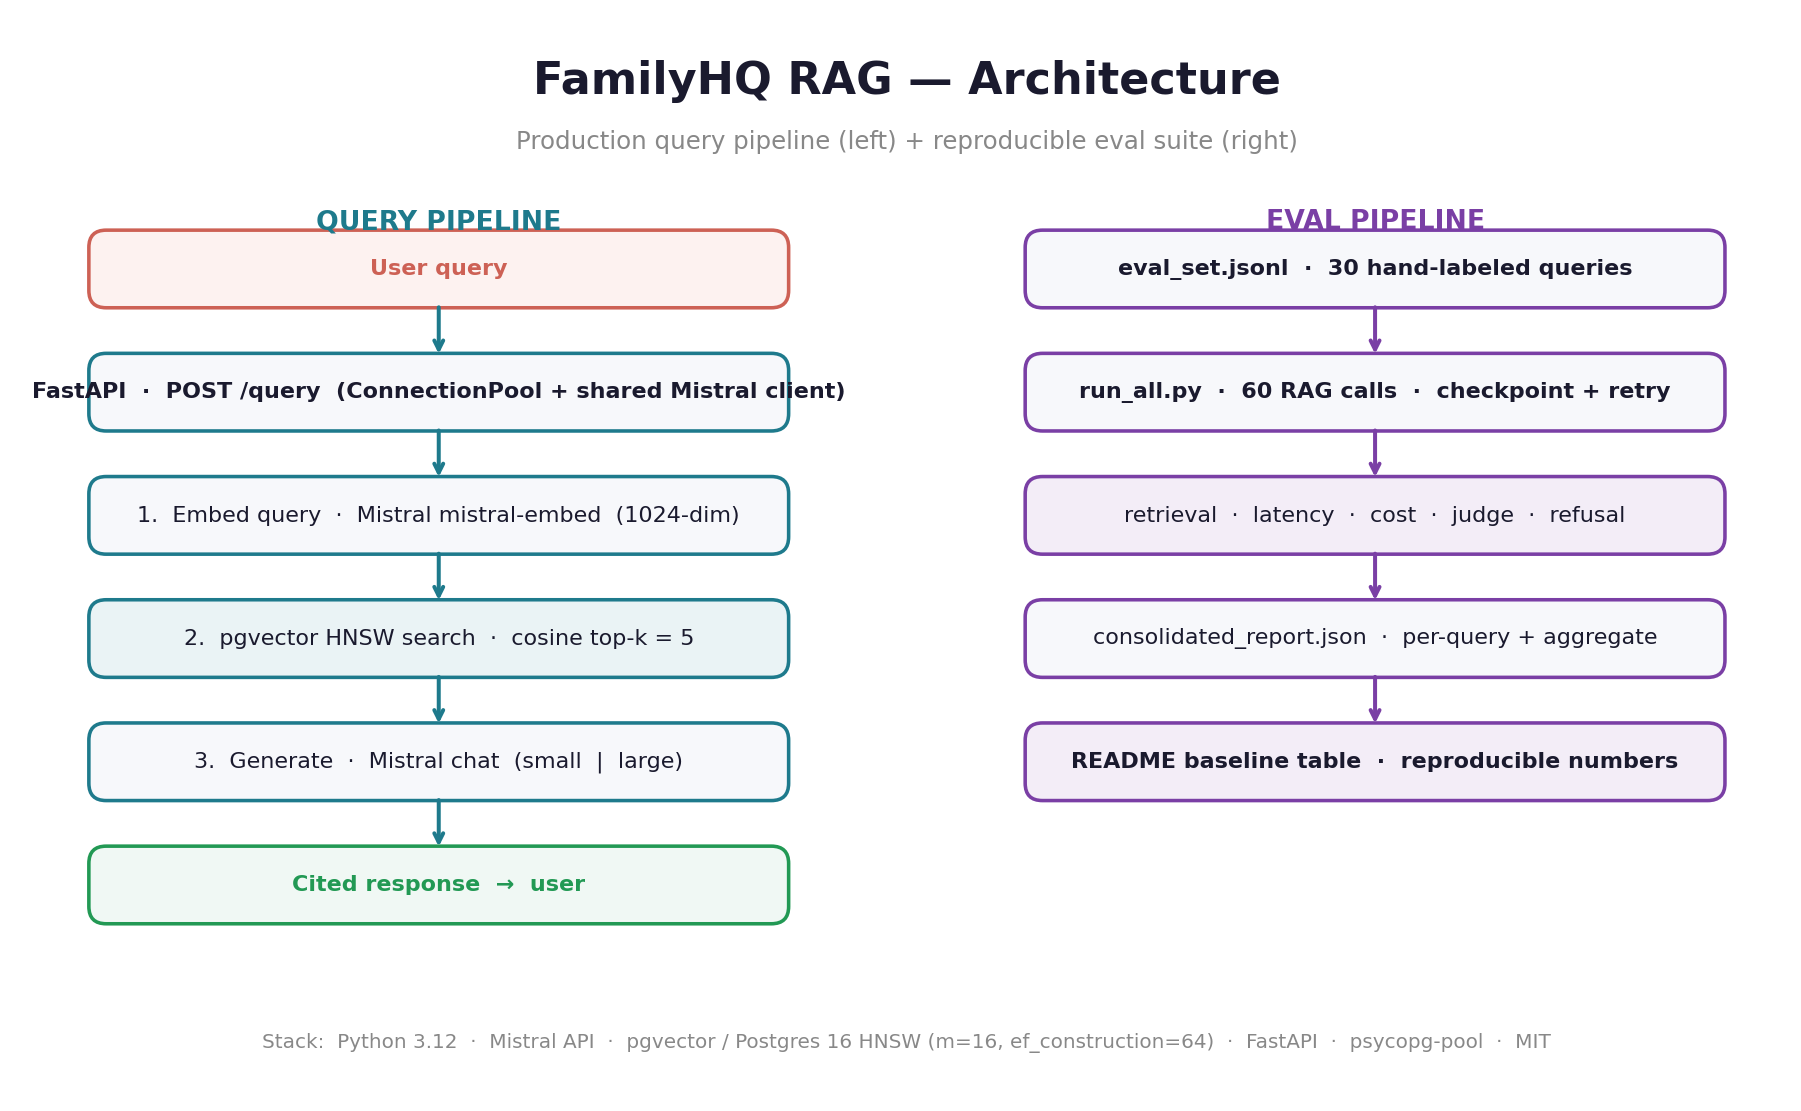
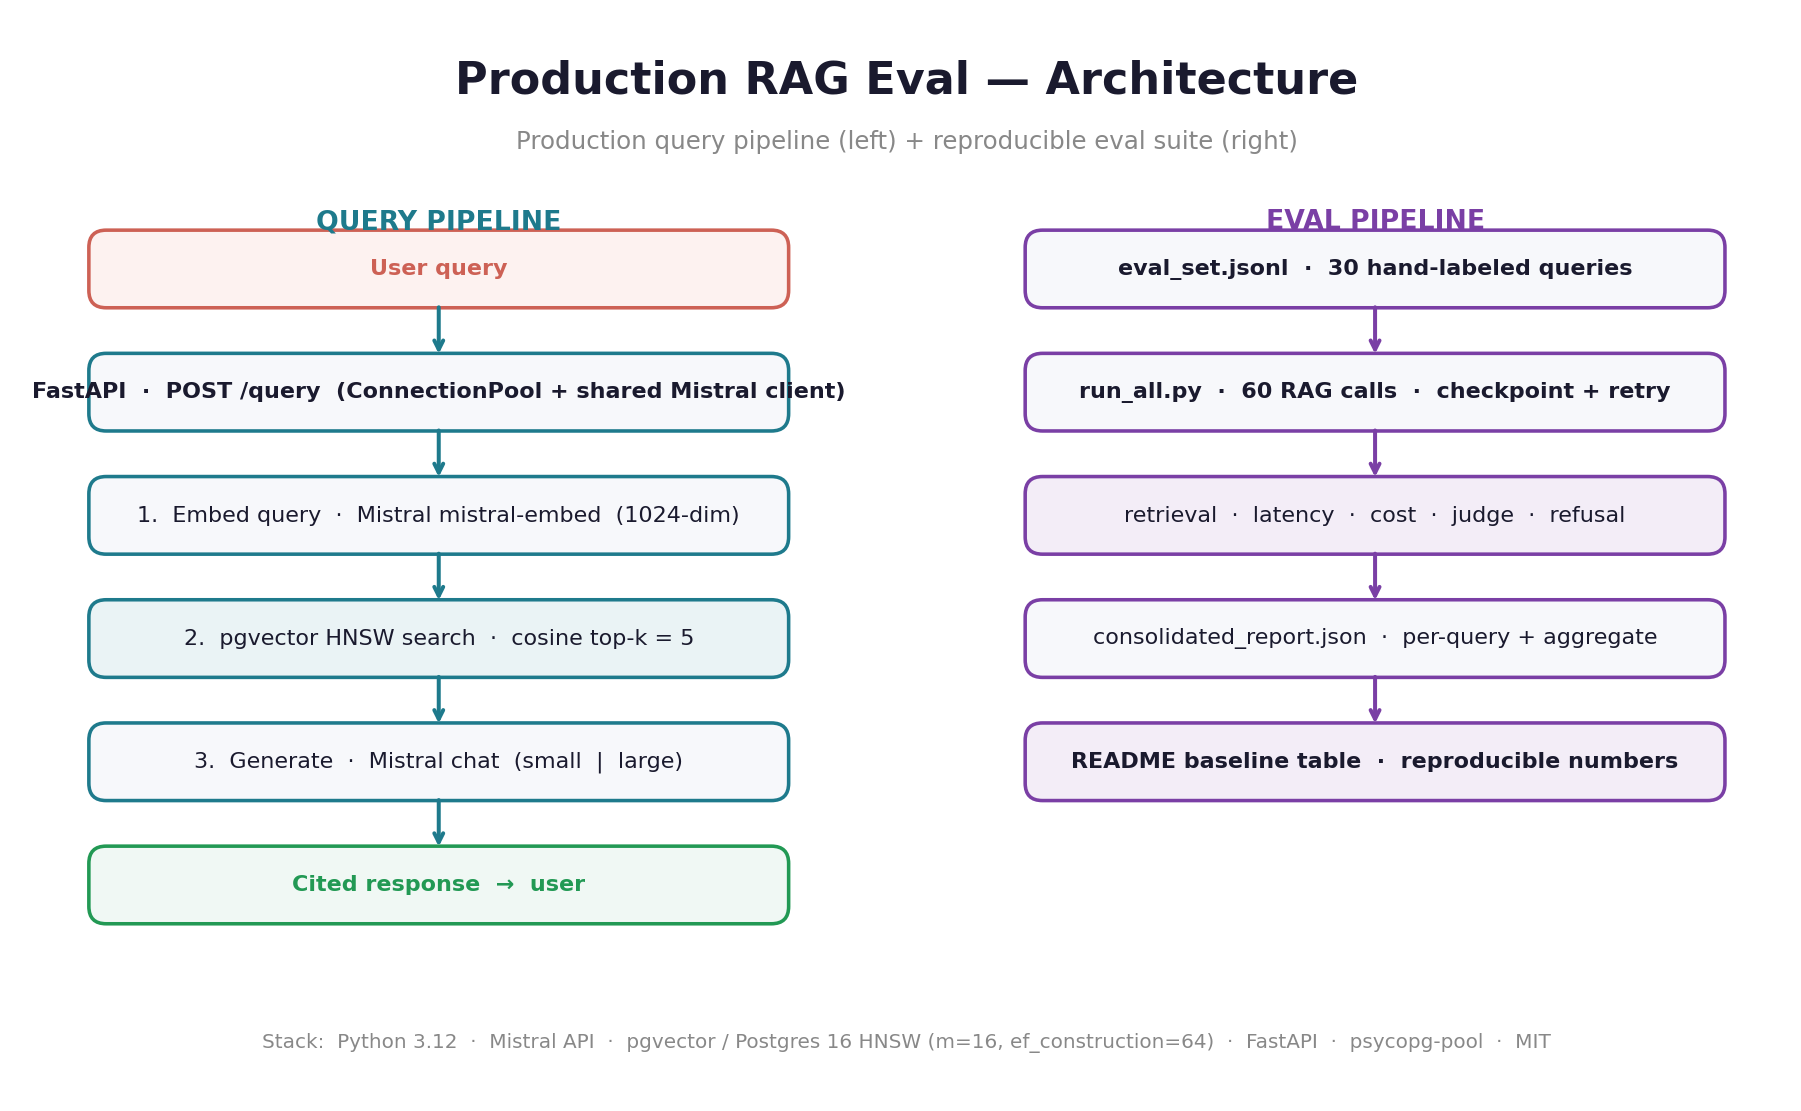
rename: FamilyHQ → production-rag-eval (clarity for recruiter audience)
User-visible text + branding updated:
- README: title 'Production RAG Eval', clone URL openatlaspro-AI/production-rag-eval,
  project structure folder name, 'What FamilyHQ is' section reframed to neutral
  'Personal context' (FamilyHQ Printables / Gumroad references removed)
- docs/architecture.png: regenerated with new title
- docs/_diagram.py: title text updated
- docs/decisions.md: ADR-005 generalized (no FamilyHQ-specific references)
- eval_results/labeling_protocol.md: title + body refs cleaned
- eval_results/candidate_queries.md: 'FamilyHQ angle/use case' → 'niche angle'
- src/api.py: FastAPI title 'Production RAG Eval' (visible at /docs), service
  identifier and log name updated
- src/__init__.py: module docstring
- pyproject.toml: project name 'production-rag-eval', new description
- data/README.md: section heading reframed; note clarifying that local filesystem
  paths still reference the author's directory (intentional — these are real paths)

Intentionally NOT changed (runtime config, would require DB rebuild):
- .env.example, Makefile, docker-compose.yml: POSTGRES_DB=familyhq_rag default
- src/config.py: env var defaults
- src/ingest.py: source path env var names

Postgres database remains named familyhq_rag locally; not user-facing in the
public repo's README. A future renaming can migrate it cleanly when needed.

Changed region(s): [[0.2488, 0.0306, 0.7773, 0.0918]]

diff --git a/src/api.py b/src/api.py
@@ -22,7 +22,7 @@ from src.config import settings
 from src.generate import ALLOWED_MODELS, generate_rag_response
 from src.retrieve import RetrievalHit
 
-log = logging.getLogger("familyhq-rag.api")
+log = logging.getLogger("production-rag-eval.api")
 logging.basicConfig(level=logging.INFO, format="%(asctime)s %(levelname)s %(name)s — %(message)s")
 
 
@@ -112,9 +112,9 @@ async def lifespan(app: FastAPI):
 
 
 app = FastAPI(
-    title="FamilyHQ RAG",
+    title="Production RAG Eval",
     version="0.1.0",
-    description="RAG over FamilyHQ trend signals + product corpus. Mistral + pgvector + FastAPI.",
+    description="RAG over a Chinese-news trend corpus with reproducible eval suite. Mistral + pgvector + FastAPI.",
     lifespan=lifespan,
 )
 
@@ -127,7 +127,7 @@ def health():
     pool_open = app.state.pool is not None and not app.state.pool.closed
     return {
         "status": "ok" if pool_open else "degraded",
-        "service": "familyhq-rag",
+        "service": "production-rag-eval",
         "version": "0.1.0",
         "mistral_configured": bool(settings.mistral_api_key),
         "pool_open": pool_open,

diff --git a/docs/_diagram.py b/docs/_diagram.py
@@ -35,7 +35,7 @@ def main() -> None:
     fig.patch.set_facecolor("white")
 
     # Title
-    ax.text(7, 8.0, "FamilyHQ RAG — Architecture", ha="center", fontsize=20,
+    ax.text(7, 8.0, "Production RAG Eval — Architecture", ha="center", fontsize=20,
             fontweight="bold", color=DARK, family="sans-serif")
     ax.text(7, 7.55, "Production query pipeline (left) + reproducible eval suite (right)",
             ha="center", fontsize=11, color=GRAY)

diff --git a/src/__init__.py b/src/__init__.py
@@ -1,3 +1,3 @@
-"""FamilyHQ RAG — production patterns over live trend data."""
+"""Production RAG Eval — patterns + reproducible eval over a Chinese-news trend corpus."""
 
 __version__ = "0.1.0"

diff --git a/README.md b/README.md
@@ -1,4 +1,4 @@
-# FamilyHQ RAG
+# Production RAG Eval
 
 > **Production RAG over a 400-document Chinese-news trend corpus, with a 30-query labeled eval suite. Every README number has a JSON receipt in the repo.**
 
@@ -18,8 +18,8 @@ Full numbers below. Raw data: [`eval_results/consolidated_report.json`](eval_res
 ## Quick start
 
 ```bash
-git clone https://github.com/markteji/familyhq-rag.git
-cd familyhq-rag && cp .env.example .env   # paste your MISTRAL_API_KEY into .env
+git clone https://github.com/openatlaspro-AI/production-rag-eval.git
+cd production-rag-eval && cp .env.example .env   # paste your MISTRAL_API_KEY into .env
 make up ingest                            # postgres + pgvector + 400 docs (~2 min)
 make api                                  # FastAPI on http://localhost:8000
 ```
@@ -126,7 +126,7 @@ Python 3.12 · Mistral API (chat, embed, JSON-mode) · pgvector on Postgres 16 (
 ## Project structure
 
 ```
-familyhq-rag/
+production-rag-eval/
 ├── data/                     # corpus snapshot (committed JSONL)
 │   ├── trend_signals.jsonl   # 400 trends, Chinese + English
 │   └── README.md             # sources + anonymization checklist
@@ -154,9 +154,9 @@ familyhq-rag/
 └── README.md
 ```
 
-## What FamilyHQ is
+## Personal context
 
-[FamilyHQ Printables](https://familyhqprints.gumroad.com) is a personal multi-agent AI engineering project I architected and operate on a Mac Mini M4: nine deployed products, 24/7, Anthropic Claude + OpenAI GPT-4o + Ollama with intelligent model routing, MCP servers for skill module extension, persistent agent memory, Telegram failure recovery. This RAG repo is a slice of that system — the retrieval layer that decides which trends become products.
+This repo was extracted from a larger personal multi-agent AI engineering project I run on a Mac Mini M4. The trend corpus here is the retrieval layer of that system — the part that decides which signals are worth acting on. The full repo is scoped to one thing: showing what a production-grade RAG pipeline plus a real eval harness look like on a small, honestly-labeled corpus.
 
 ## License
 

diff --git a/eval_results/labeling_protocol.md b/eval_results/labeling_protocol.md
@@ -1,4 +1,4 @@
-# Eval Set Labeling Protocol — FamilyHQ RAG
+# Eval Set Labeling Protocol — Production RAG Eval
 
 **Created:** 2026-05-09
 **Eval set target:** 30 hand-labeled query→relevance pairs
@@ -9,7 +9,7 @@
 
 ## What this eval set measures
 
-Retrieval quality of `pgvector` cosine similarity over the 400-document FamilyHQ trend corpus. Specifically:
+Retrieval quality of `pgvector` cosine similarity over the 400-document trend corpus. Specifically:
 
 - **precision@5** — of the top 5 retrieved, how many are relevant?
 - **recall@10** — of all relevant docs in the corpus, how many appear in top 10?
@@ -29,7 +29,7 @@ We are NOT using graded relevance (0/1/2/3) for the baseline — binary keeps an
 
 ---
 
-## What counts as "relevant" for FamilyHQ trend retrieval
+## What counts as "relevant" for trend retrieval
 
 A document is **relevant** to a query if **at least one** of the following holds:
 
@@ -105,7 +105,7 @@ To get meaningful precision/recall numbers, the 30-query set should span:
 | Specific entity queries (e.g., "hantavirus outbreak") | ~10 | Tests precision — few but exact matches |
 | Multi-aspect queries (e.g., "family budgeting tips") | ~5 | Tests vector similarity for compositional concepts |
 | Negative tests (queries expected to retrieve nothing) | ~3 | Tests that the system can refuse |
-| Family/parenting niche (small corpus segment) | ~4 | The original FamilyHQ use case — test retrieval for the niche slice |
+| Family/parenting niche (small corpus segment) | ~4 | The original niche-use case — test retrieval for the slim slice |
 
 ---
 

diff --git a/eval_results/candidate_queries.md b/eval_results/candidate_queries.md
@@ -18,7 +18,7 @@
 | Real estate | 1% | Shanghai sales, May Day home buying |
 | Social issues | 1% | Crime, fraud, sentencing |
 
-The corpus is **dominated by geopolitics, economy, and sports** — design queries accordingly. Family/parenting is a small slice (the original FamilyHQ angle).
+The corpus is **dominated by geopolitics, economy, and sports** — design queries accordingly. Family/parenting is a small slice (the original niche angle of the source data).
 
 ---
 
@@ -113,11 +113,11 @@ Expect 0 relevant — tests that retrieval doesn't false-match. The LLM should r
 
 ## E. Family / parenting niche queries (target: 4 of 8 listed)
 
-The original FamilyHQ angle. Small corpus slice (3%) so retrieval is a real challenge here.
+The original niche angle of the source dataset. Small corpus slice (3%) so retrieval is a real challenge here.
 
 | # | Query | Type | Predicted relevant | Why useful |
 |---|---|---|---|---|
-| E1 | what trending topics are about parenting or raising children | family-niche | 3-6 | Direct hit on the FamilyHQ use case |
+| E1 | what trending topics are about parenting or raising children | family-niche | 3-6 | Direct hit on the niche family-content use case |
 | E2 | what news discusses marriage or divorce | family-niche | 3-5 | Family relationship subtopic |
 | E3 | what stories mention mothers or motherhood | family-niche | 2-4 | "Mom" specifically |
 | E4 | what trends are about saving money for the family | family-niche | 1-3 | Stretch — corpus has money + family but not specifically family-savings |

diff --git a/data/README.md b/data/README.md
@@ -31,11 +31,13 @@ news_items(
 
 **Privacy:** all titles + URLs are public news. No PII.
 
-### 2. Product corpus — FamilyHQ PDFs + descriptions
+### 2. Product corpus — printable PDF products + descriptions
 
 **Local sources (gitignored):**
-- `~/Documents/FamilyHQ/PDFs_Live/*.pdf` — 3 product PDFs locally; 9 deployed total on [familyhqprints.gumroad.com](https://familyhqprints.gumroad.com)
+- `~/Documents/FamilyHQ/PDFs_Live/*.pdf` — 3 published printable PDFs locally; 9 deployed total to a Gumroad store
 - `~/Documents/FamilyHQ/Scripts/upload_3_new.py` — Python literals containing product titles, prices, and descriptions
+
+> The local path keeps the `FamilyHQ` folder name because that's the actual filesystem location on the author's machine; the repo and dataset framing are independent of it.
 
 **Language:** English.
 
@@ -85,5 +87,5 @@ After running `make ingest`:
 If you want to run this demo without the original sources:
 
 1. Generate a synthetic trend corpus by sampling Wikipedia or HuggingFace datasets — see `notebooks/01_explore_data.ipynb` for a sketch
-2. Use the published product copy from `familyhqprints.gumroad.com`
+2. Use any published commercial product copy you have access to
 3. Adjust `EVAL_SET_PATH` queries in `eval_results/eval_set.jsonl` to match the synthetic corpus

diff --git a/docs/decisions.md b/docs/decisions.md
@@ -89,19 +89,19 @@ Short, dated, opinionated. Each ADR captures *why* a choice was made and what al
 ## ADR-005 — pypdf for product PDF extraction
 **Date:** 2026-05-09 | **Status:** Accepted
 
-**Context:** 3 FamilyHQ product PDFs need text extraction.
+**Context:** 3 product PDFs from the source dataset need text extraction.
 
 **Decision:** `pypdf` for now.
 
 **Why:**
 - Pure Python, no system dependencies.
-- Handles the simple text layout in FamilyHQ PDFs (printable forms with text labels).
+- Handles the simple text layout in the source PDFs (printable forms with text labels).
 
 **Alternatives considered:**
 - *pdfplumber:* better for complex tabular extraction.
 - *unstructured:* more robust but heavier.
 
-**Trade-off:** If FamilyHQ PDFs add complex tables in the future, swap to pdfplumber. Today's PDFs are simple enough.
+**Trade-off:** If the PDFs add complex tables in the future, swap to pdfplumber. Today's PDFs are simple enough.
 
 ---
 
